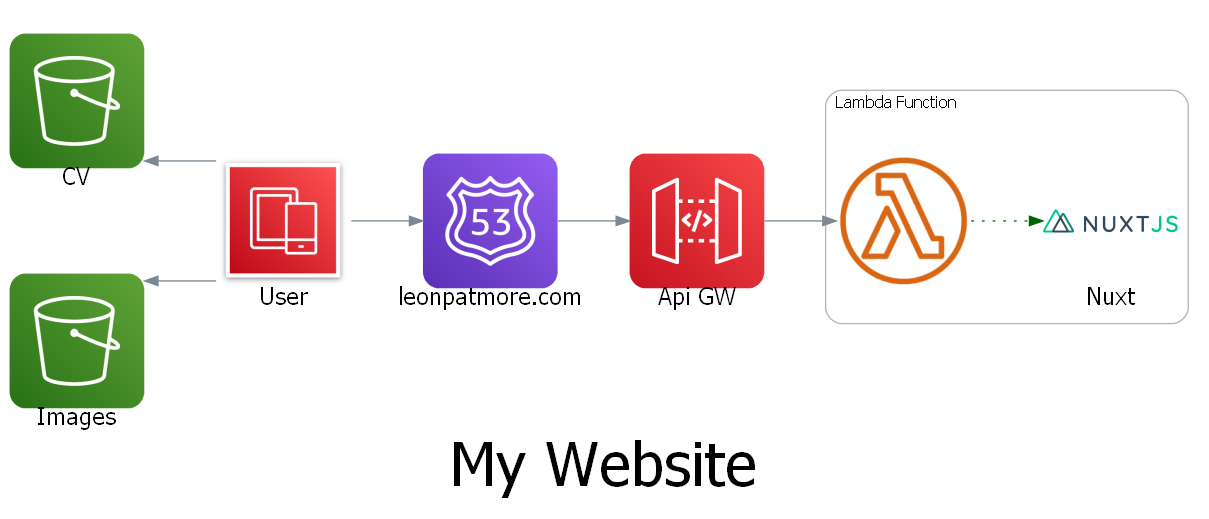
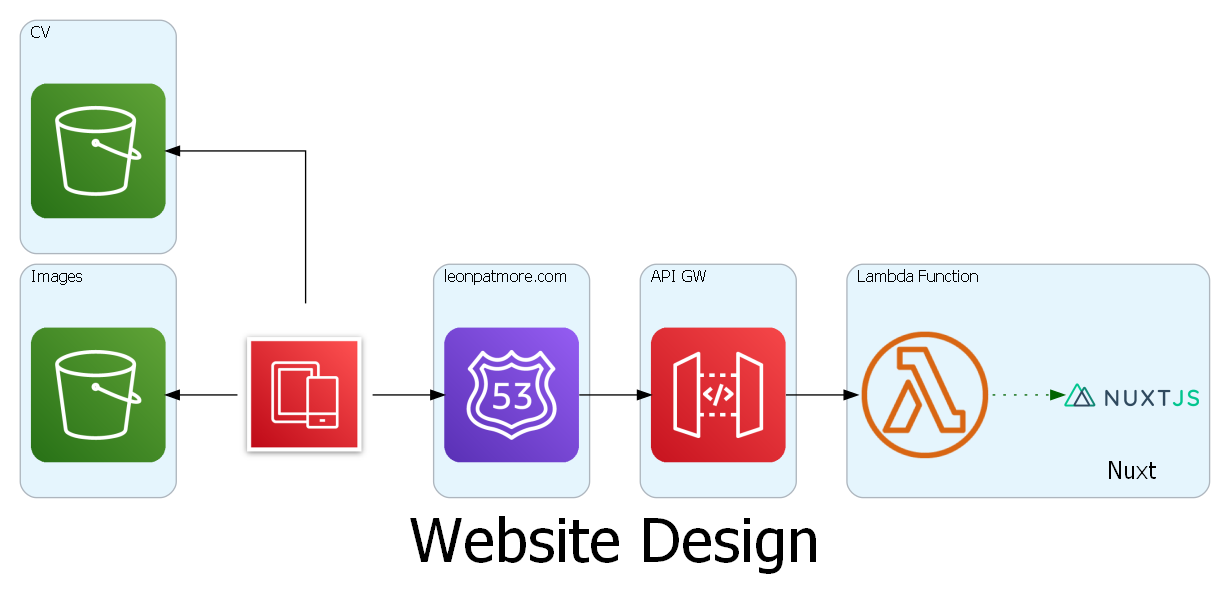
v-containers.

diff --git a/src/pages/index.vue b/src/pages/index.vue
@@ -1,59 +1,58 @@
 <template>
     <div>
         <span class="bg"></span>
-        <v-card outlined color="transparent">
-            <v-card-title class="justify-center">
-                <div class="text-md-h1 title-color mt-10 text-h3">
-                    Leon Patmore
-                </div>
-            </v-card-title>
-        </v-card>
-        <v-row justify="center">
-            <v-col cols="12">
-                <v-card
-                    outlined
-                    color="transparent"
-                    class="pa-5 ma-4 mb-1 mt-1 pt-0"
-                >
-                    <v-card-text class="text-center text-subtitle-1 black--text"
-                        >Hello and welcome to my website! Please find my CV and
-                        projects on the other pages.</v-card-text
+        <v-container>
+            <v-row>
+                <v-col cols="12">
+                    <v-card outlined color="transparent">
+                        <v-card-title class="justify-center">
+                            <div class="text-md-h1 title-color mt-10 text-h3">
+                                Leon Patmore
+                            </div>
+                        </v-card-title>
+                    </v-card>
+                </v-col>
+            </v-row>
+            <v-row class="no-gutters">
+                <v-col cols="12">
+                    <v-card outlined color="transparent" class="pa-5 pt-0">
+                        <v-card-text
+                            class="text-center text-subtitle-1 black--text"
+                            >Hello and welcome to my website! Please find my CV
+                            and projects on the other pages.</v-card-text
+                        >
+                    </v-card>
+                </v-col>
+            </v-row>
+            <v-row class="justify-center no-gutters">
+                <v-col :lg="8" :md="10" cols="12">
+                    <v-card outlined color="transparent" class="pa-5">
+                        <v-img
+                            max-width="100%"
+                            src="https://leon-patmore-cv.s3.eu-west-2.amazonaws.com/my_website.png"
+                        />
+                    </v-card>
+                </v-col>
+            </v-row>
+            <v-row class="no-gutters">
+                <v-col cols="12">
+                    <v-card
+                        outlined
+                        color="transparent"
+                        class="pa-5 d-flex justify-center"
                     >
-                </v-card>
-            </v-col>
-        </v-row>
-        <v-row>
-            <v-col cols="12">
-                <v-card
-                    class="pa-5 ma-4 mb-1 mt-1 d-flex justify-center"
-                    outlined
-                    color="transparent"
-                >
-                    <v-img
-                        v-for="img in images"
-                        v-bind:key="img"
-                        class="ma-2"
-                        max-width="100"
-                        contain
-                        :src="img"
-                    ></v-img>
-                </v-card>
-            </v-col>
-        </v-row>
-        <v-row>
-            <v-col cols="12">
-                <v-card
-                    class="pa-5 ma-4 mb-0 mt-0 d-flex justify-center"
-                    outlined
-                    color="transparent"
-                >
-                    <v-img
-                        max-width="700"
-                        src="https://leon-patmore-cv.s3.eu-west-2.amazonaws.com/my_website.png"
-                    />
-                </v-card>
-            </v-col>
-        </v-row>
+                        <v-img
+                            v-for="img in images"
+                            v-bind:key="img"
+                            class="ma-1"
+                            max-width="100"
+                            contain
+                            :src="img"
+                        ></v-img>
+                    </v-card>
+                </v-col>
+            </v-row>
+        </v-container>
     </div>
 </template>
 

diff --git a/src/pages/projects.vue b/src/pages/projects.vue
@@ -1,43 +1,47 @@
 <template>
     <div>
         <span class="bg"></span>
-        <v-card outlined color="transparent">
-            <v-card-title class="justify-center">
-                <div class="text-md-h1 title-color text-h3">Projects</div>
-            </v-card-title>
-        </v-card>
-        <v-card outlined color="transparent">
-            <div class="text-center text-md-h5 title-color font-weight-light">
-                See all my projects at:
-                <a href="https://github.com/LeonPatmore">
-                    https://github.com/LeonPatmore
-                </a>
-            </div>
-        </v-card>
-        <v-card
-            v-for="project in projects"
-            v-bind:key="project.name"
-            class="pa-2 ma-10"
-            color="transparent"
-            hover
-            rounded
-        >
-            <a
-                :href="project.repo"
-                target="_blank"
-                style="text-decoration: none"
+        <v-container>
+            <v-card outlined color="transparent">
+                <v-card-title class="justify-center">
+                    <div class="text-md-h1 title-color text-h3">Projects</div>
+                </v-card-title>
+            </v-card>
+            <v-card outlined color="transparent">
+                <div
+                    class="text-center text-md-h5 title-color font-weight-light"
+                >
+                    See all my projects at:
+                    <a href="https://github.com/LeonPatmore">
+                        https://github.com/LeonPatmore
+                    </a>
+                </div>
+            </v-card>
+            <v-card
+                v-for="project in projects"
+                v-bind:key="project.name"
+                class="pa-2 ma-10"
+                color="transparent"
+                hover
+                rounded
             >
-                <v-card-title class="pa-1 white--text">{{
-                    project.name
-                }}</v-card-title>
-                <v-card-text class="pa-1 white--text font-weight-light">{{
-                    project.desc
-                }}</v-card-text>
-                <v-card-text class="pa-1 white--text font-weight-light">{{
-                    project.repo
-                }}</v-card-text>
-            </a>
-        </v-card>
+                <a
+                    :href="project.repo"
+                    target="_blank"
+                    style="text-decoration: none"
+                >
+                    <v-card-title class="pa-1 white--text">{{
+                        project.name
+                    }}</v-card-title>
+                    <v-card-text class="pa-1 white--text font-weight-light">{{
+                        project.desc
+                    }}</v-card-text>
+                    <v-card-text class="pa-1 white--text font-weight-light">{{
+                        project.repo
+                    }}</v-card-text>
+                </a>
+            </v-card>
+        </v-container>
     </div>
 </template>
 

diff --git a/diagram/website_diagram.py b/diagram/website_diagram.py
@@ -11,23 +11,27 @@ diagram_attributes = {
     "pad": "0.1",
     "fontsize": "45",
     "fontcolor": font_colour,
-    "bgcolor": "white",
-}
-
-cluster_attributes = {
     "bgcolor": "transparent",
 }
 
-with Diagram("My Website", graph_attr=diagram_attributes, node_attr={"fontsize": "18", "fontcolor": font_colour}):
-    mobile = Mobile("User")
-    cv_store = S3("CV")
-    image_store = S3("Images")
-    with Cluster("Lambda Function", graph_attr=cluster_attributes):
+with Diagram("Website Design",
+             graph_attr=diagram_attributes,
+             node_attr={"fontsize": "18", "fontcolor": font_colour},
+             filename="my_website"):
+    mobile = Mobile()
+    with Cluster("CV"):
+        cv_store = S3()
+    with Cluster("Images"):
+        image_store = S3()
+    with Cluster("Lambda Function"):
         fuc = LambdaFunction()
         nuxt = Custom(label="Nuxt", icon_path="./nuxt.png")
         fuc >> Edge(style="dotted", color="darkgreen") >> nuxt
-    api_gw = APIGateway("Api GW")
-    api_gw >> fuc
-    mobile >> Route53("leonpatmore.com") >> api_gw
-    cv_store << mobile
-    image_store << mobile
+    with Cluster("API GW"):
+        api_gw = APIGateway()
+    api_gw >> Edge(color="black") >> fuc
+    with Cluster("leonpatmore.com"):
+        r53 = Route53()
+    mobile >> Edge(color="black") >> r53 >> Edge(color="black") >> api_gw
+    cv_store << Edge(color="black") << mobile
+    image_store << Edge(color="black") << mobile
